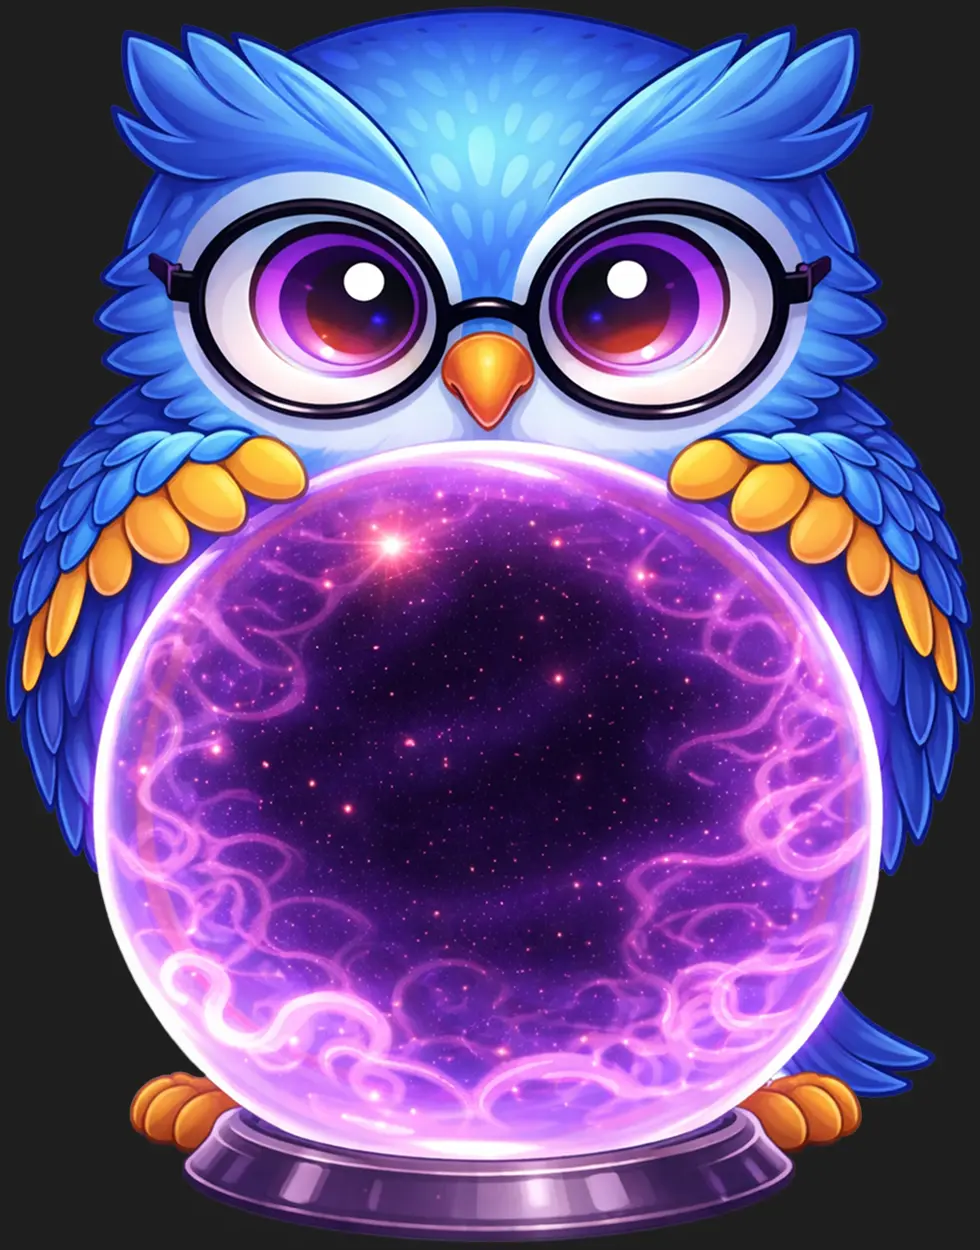
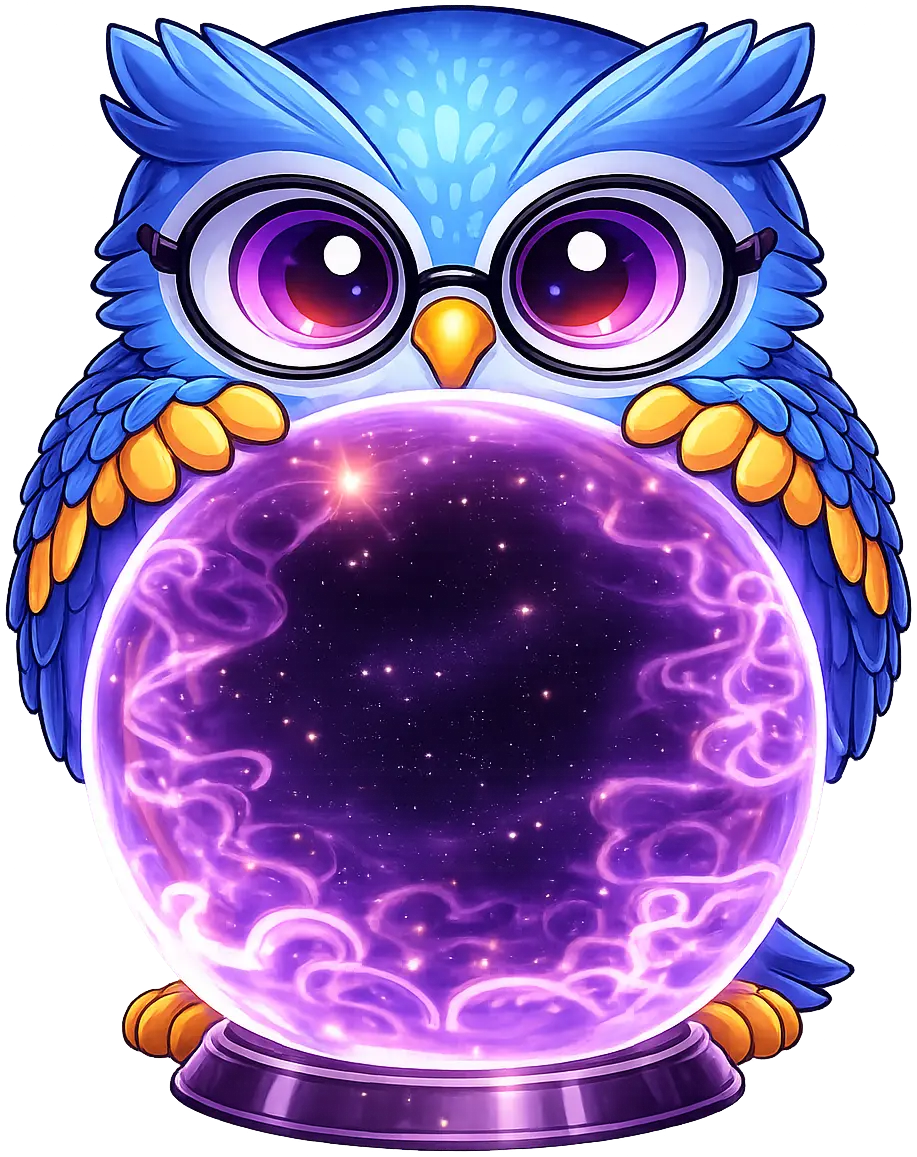
Updated readme and graphics

diff --git a/extension/store-assets.html b/extension/store-assets.html
@@ -412,9 +412,8 @@
           <div style="max-width:480px;">
             <div class="eyebrow"><span class="eyebrow-dash"></span>The Editor</div>
             <div class="headline-md">Clean copy<br>in seconds.</div>
-            <p class="body-copy">Paste your text, choose a writing style, and hit Proofread. Results stream back in real time — then copy them straight back to where you started.</p>
+            <p class="body-copy">Paste your text, choose a writing style, and hit Proofread. Clean results come back fast — then copy them straight back to where you started.</p>
             <div class="feats">
-              <div class="feat"><div class="feat-dot"></div><div class="feat-text"><strong>Streaming output</strong> — see results appear as they're written</div></div>
               <div class="feat"><div class="feat-dot"></div><div class="feat-text"><strong>Auto-proofread on paste</strong> — no button press required</div></div>
               <div class="feat"><div class="feat-dot"></div><div class="feat-text"><strong>Right-click from anywhere</strong> — proofread selected text on any page</div></div>
               <div class="feat"><div class="feat-dot"></div><div class="feat-text"><strong>Smart Markdown</strong> — renders code blocks with one-click copy</div></div>
@@ -467,7 +466,7 @@
               <div class="feat"><div class="feat-dot"></div><div class="feat-text"><strong>Light, dark, or auto</strong> theme — follows your system preference</div></div>
               <div class="feat"><div class="feat-dot"></div><div class="feat-text"><strong>Auto-proofread on paste</strong> — hands-free, instant correction</div></div>
               <div class="feat"><div class="feat-dot"></div><div class="feat-text"><strong>Proofread history</strong> — searchable log of every session, stored only on your device</div></div>
-              <div class="feat"><div class="feat-dot"></div><div class="feat-text"><strong>Incognito mode</strong> — skip saving entirely with a near-black private theme</div></div>
+              <div class="feat"><div class="feat-dot"></div><div class="feat-text"><strong>Incognito mode</strong> — prevents sessions from being saved to your local history</div></div>
             </div>
           </div>
         </div>
@@ -503,7 +502,7 @@
             <img src="assets/screenshot-styles.webp" alt="Styles panel" class="ss"
               style="max-height:680px;width:auto;position:relative;z-index:1;">
             <img src="assets/owl-styles.webp" alt=""
-              style="position:absolute;width:200px;bottom:-36px;left:-44px;z-index:5;filter:drop-shadow(0 8px 24px rgba(0,0,0,0.5));">
+              style="position:absolute;width:400px;bottom:-36px;left:-120px;z-index:5;filter:drop-shadow(0 8px 24px rgba(0,0,0,0.5));">
           </div>
         </div>
 

diff --git a/README.md b/README.md
@@ -1,5 +1,5 @@
 <p align="center">
-  <img src="src/assets/repo-header.webp" alt="Proofreader" width="100%">
+  <img src="src/assets/slide-intro.webp" alt="Proofreader" width="100%">
 </p>
 
 <p align="center">
